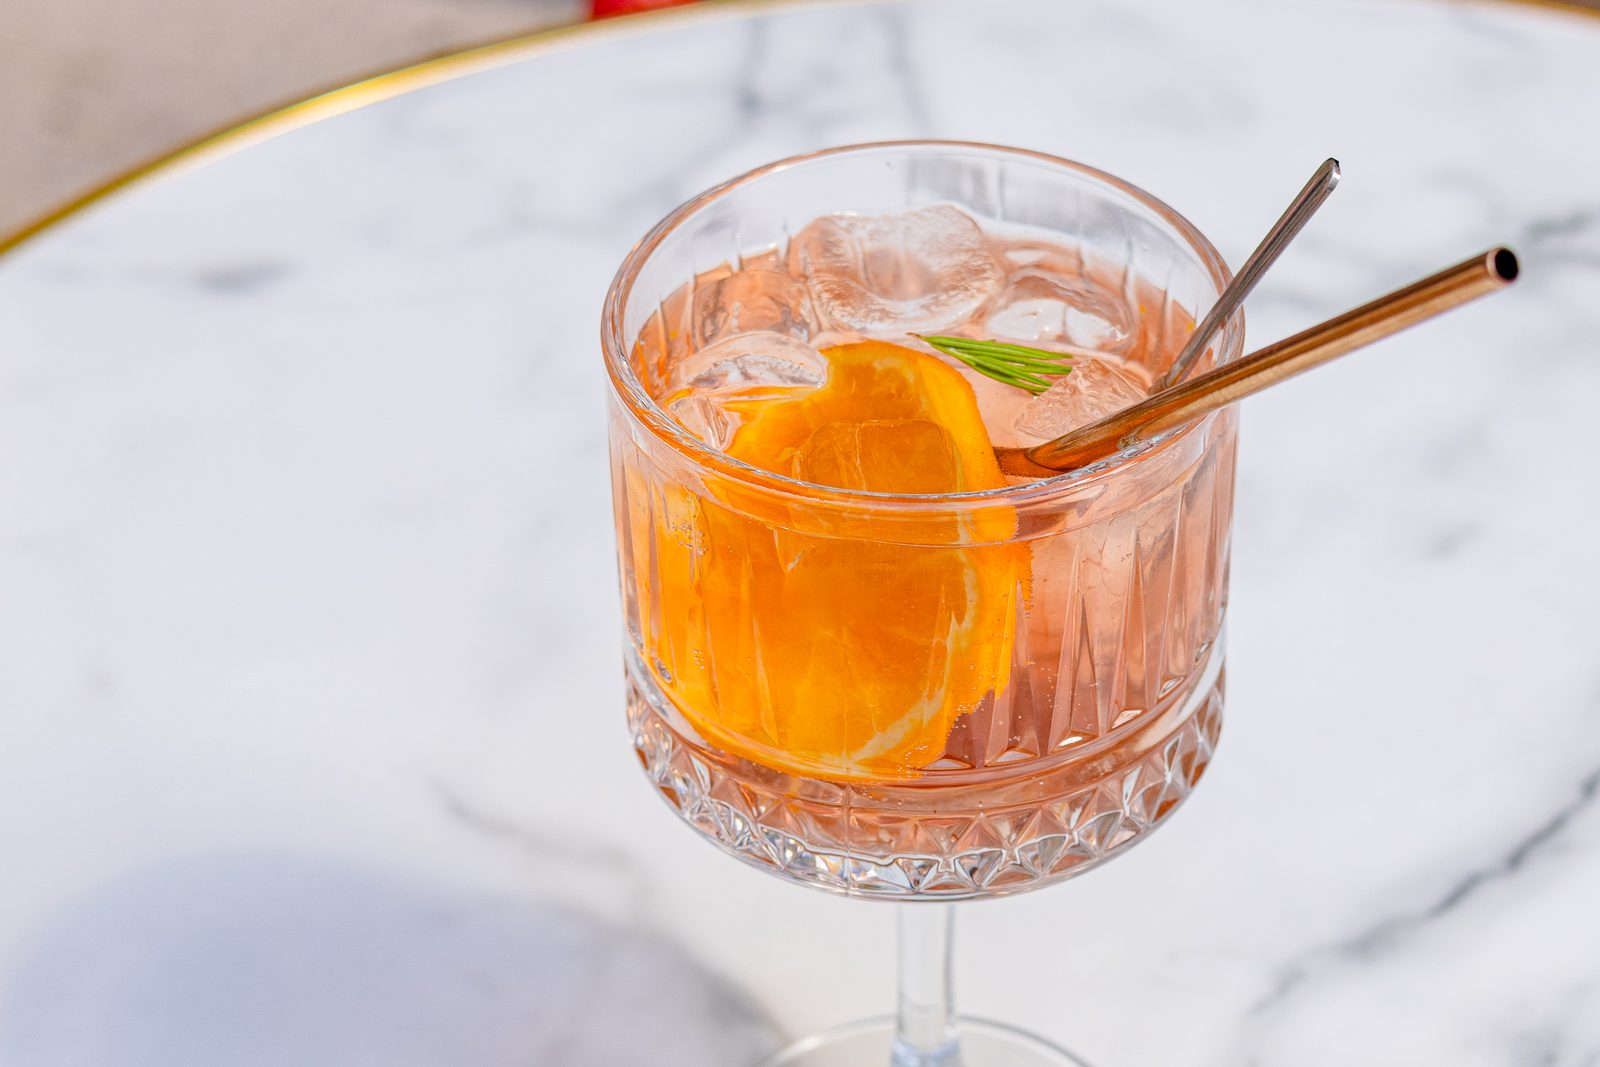
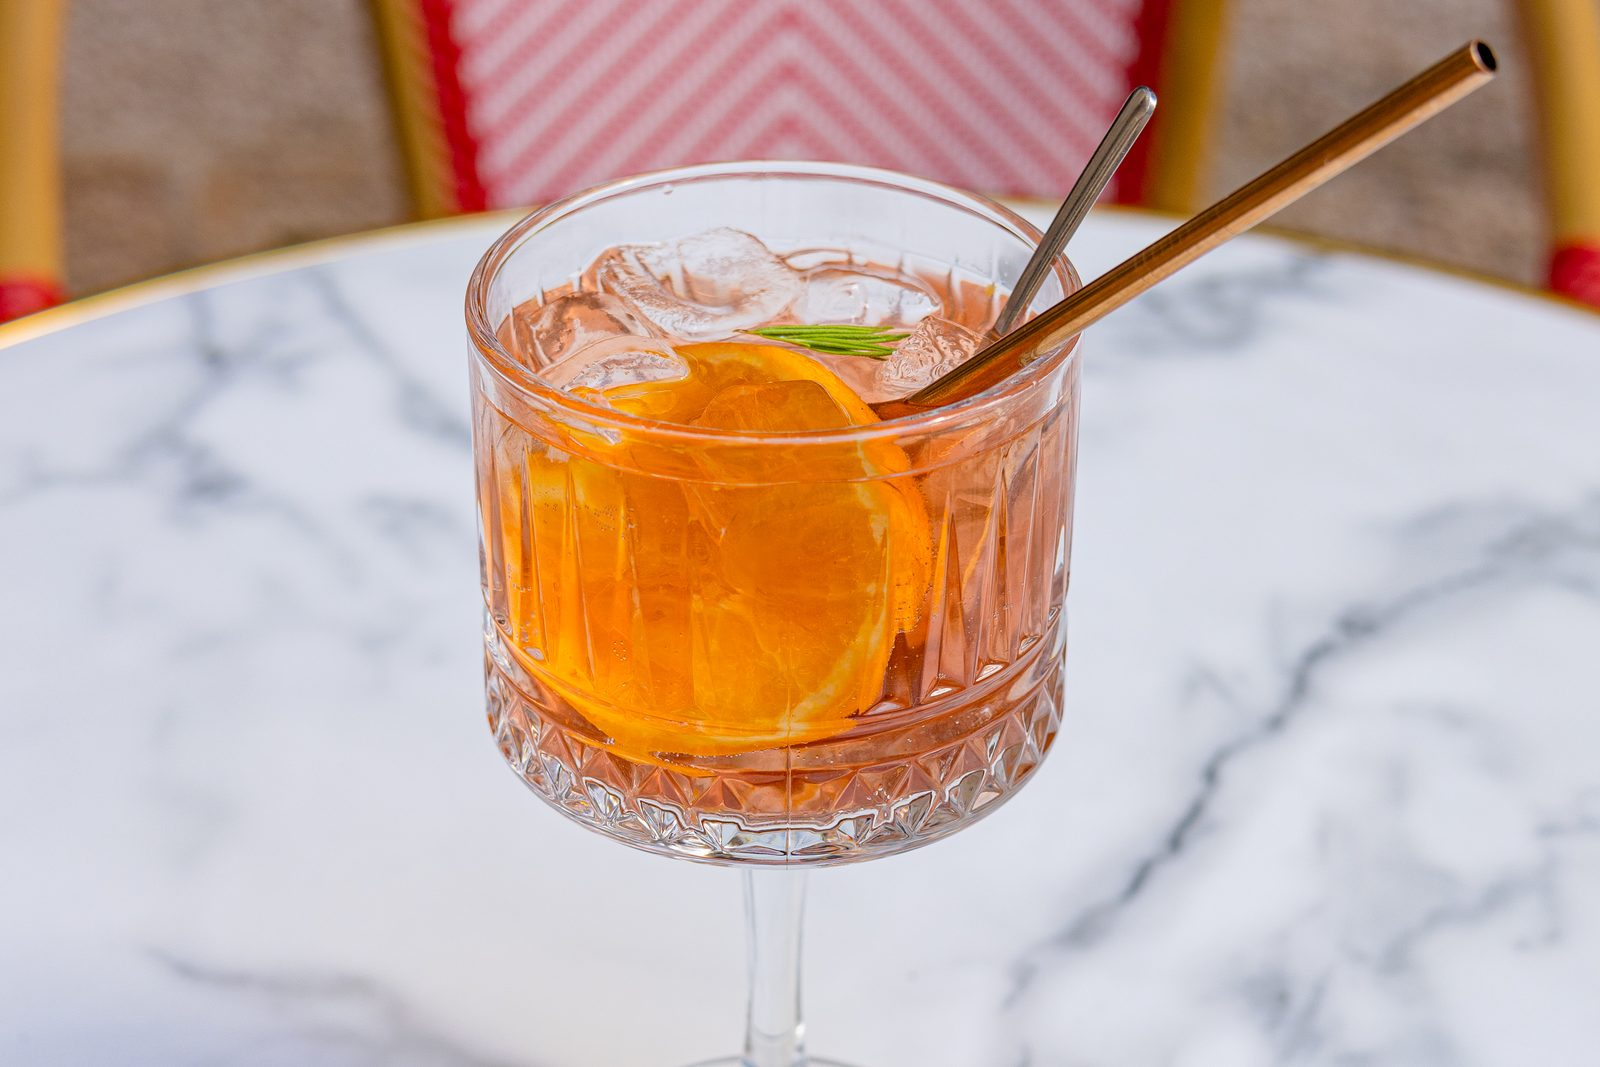
Photo : cocktail maison recentré

diff --git a/index.html b/index.html
@@ -563,7 +563,7 @@
         <p class="carte__cat-intro">Cocktails maison, vins bio et biodynamiques, softs faits ici.</p>
         <div class="carte__grid">
           <div class="pizza-card pizza-card--photo">
-            <picture><source srcset="assets/boissons-cocktails.webp" type="image/webp"><img src="assets/boissons-cocktails.jpg" alt="Spritz maison" class="pizza-card__img" loading="lazy" /></picture>
+            <picture><source srcset="assets/boissons-cocktails.webp" type="image/webp"><img src="assets/boissons-cocktails.jpg" alt="Cocktail maison à l'orange et au romarin" class="pizza-card__img" loading="lazy" /></picture>
             <div class="pizza-card__content">
               <div class="pizza-card__header"><span class="pizza-card__name">Cocktails maison</span><span class="pizza-card__price">9€ – 11,5€</span></div>
               <p class="pizza-card__ingr">Sureau pétillant · Mojito Pirouette · Spritz · Basilic smash · Pirouette mule · Negroni</p>
